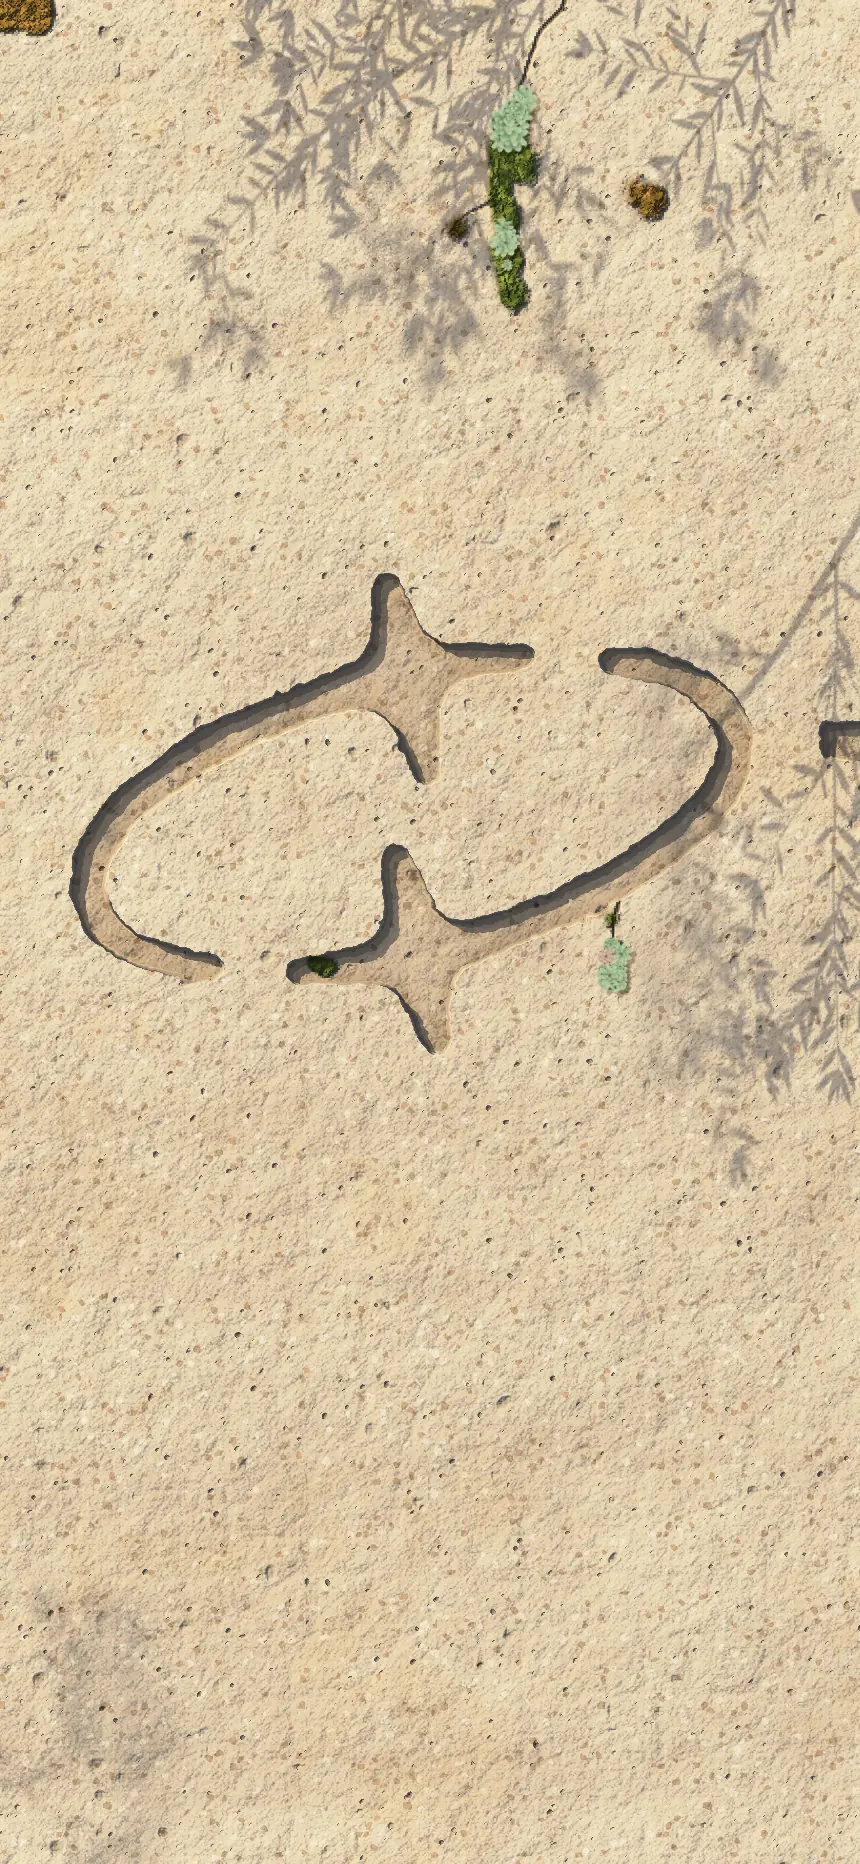
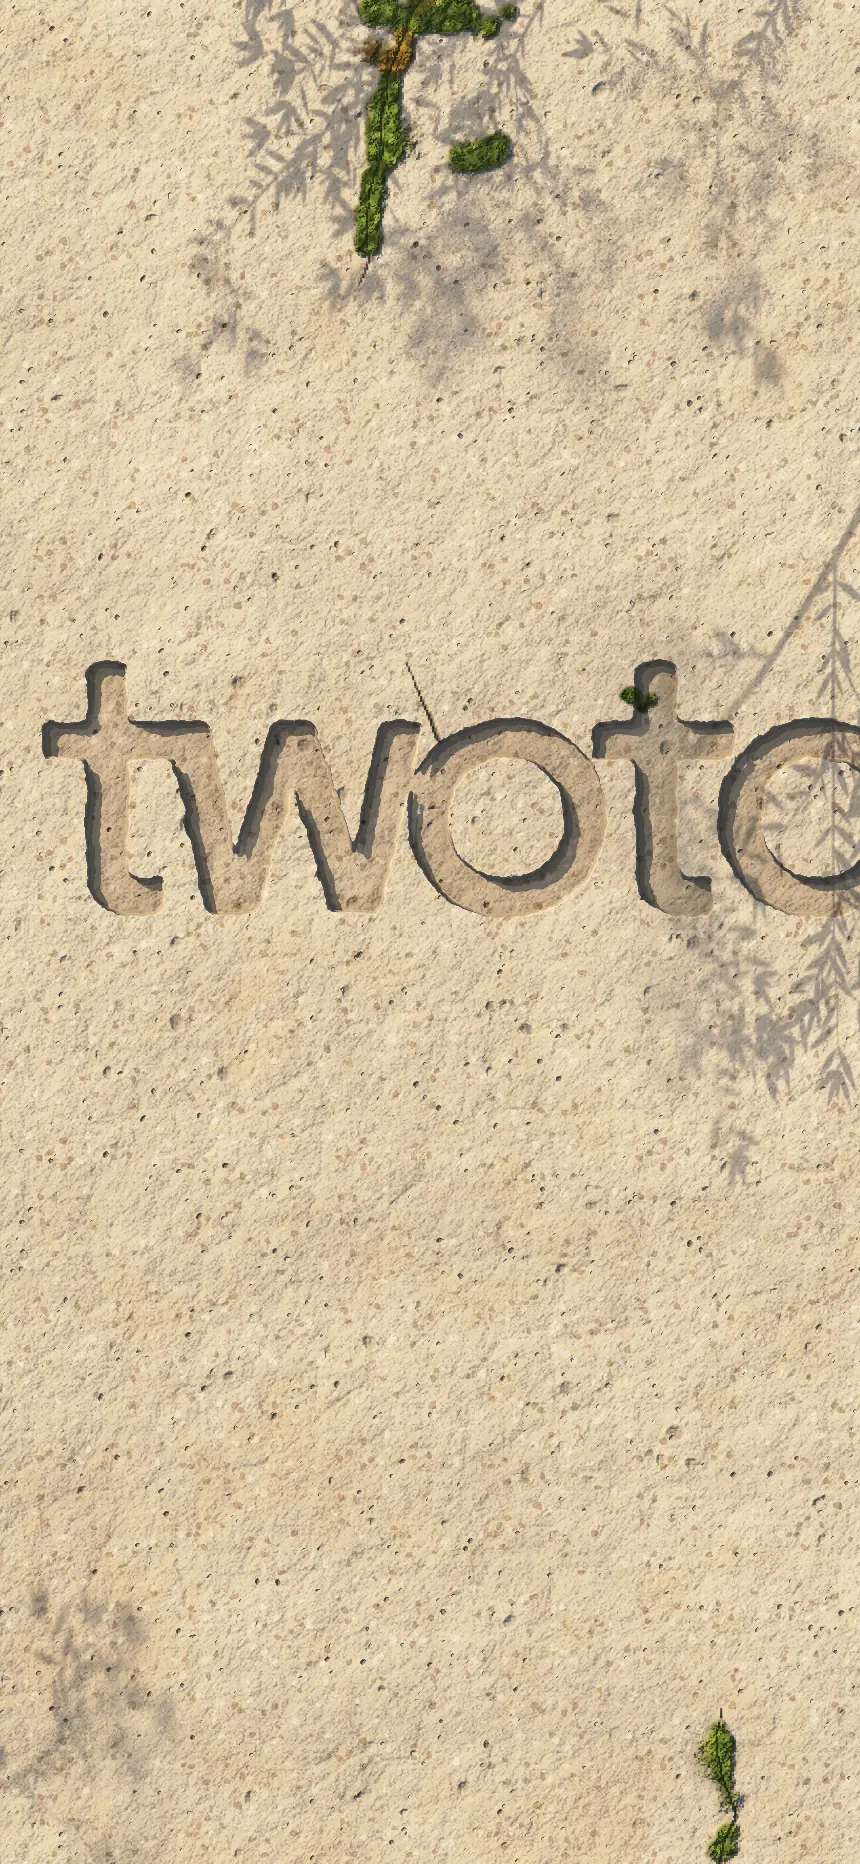
Coming soon: phones open on the name, not the mark (live stone and its still)
Claude-Session: https://claude.ai/code/session_01SvvKHPu4t4Qej2HuDjmTUd

diff --git a/src/components/stone/engine.ts b/src/components/stone/engine.ts
@@ -912,9 +912,13 @@ export function mountStone(root: HTMLElement, options: StoneOptions = {}): Stone
 
   try {
     setupStatic();
-    // start with the band placed as in the design: the mark near the middle
+    // start with the band placed as in the design: the mark near the middle.
+    // An upright screen (a phone) starts on the name instead, from its first letter,
+    // since the whole name is wider than a phone.
     layout();
-    scroll = (GAP_AFTER_ICON / 2 + WORD_BOX.w + GAP_AFTER_WORD + (ICON_BOX.w * ICON_SCALE) / 2) * L.unit - L.w * 0.5;
+    scroll = L.w < L.h
+      ? (GAP_AFTER_ICON / 2) * L.unit - L.w * 0.07
+      : (GAP_AFTER_ICON / 2 + WORD_BOX.w + GAP_AFTER_WORD + (ICON_BOX.w * ICON_SCALE) / 2) * L.unit - L.w * 0.5;
   } catch (err) {
     console.warn("stone: falling back to the still image", err);
     plants.remove();
